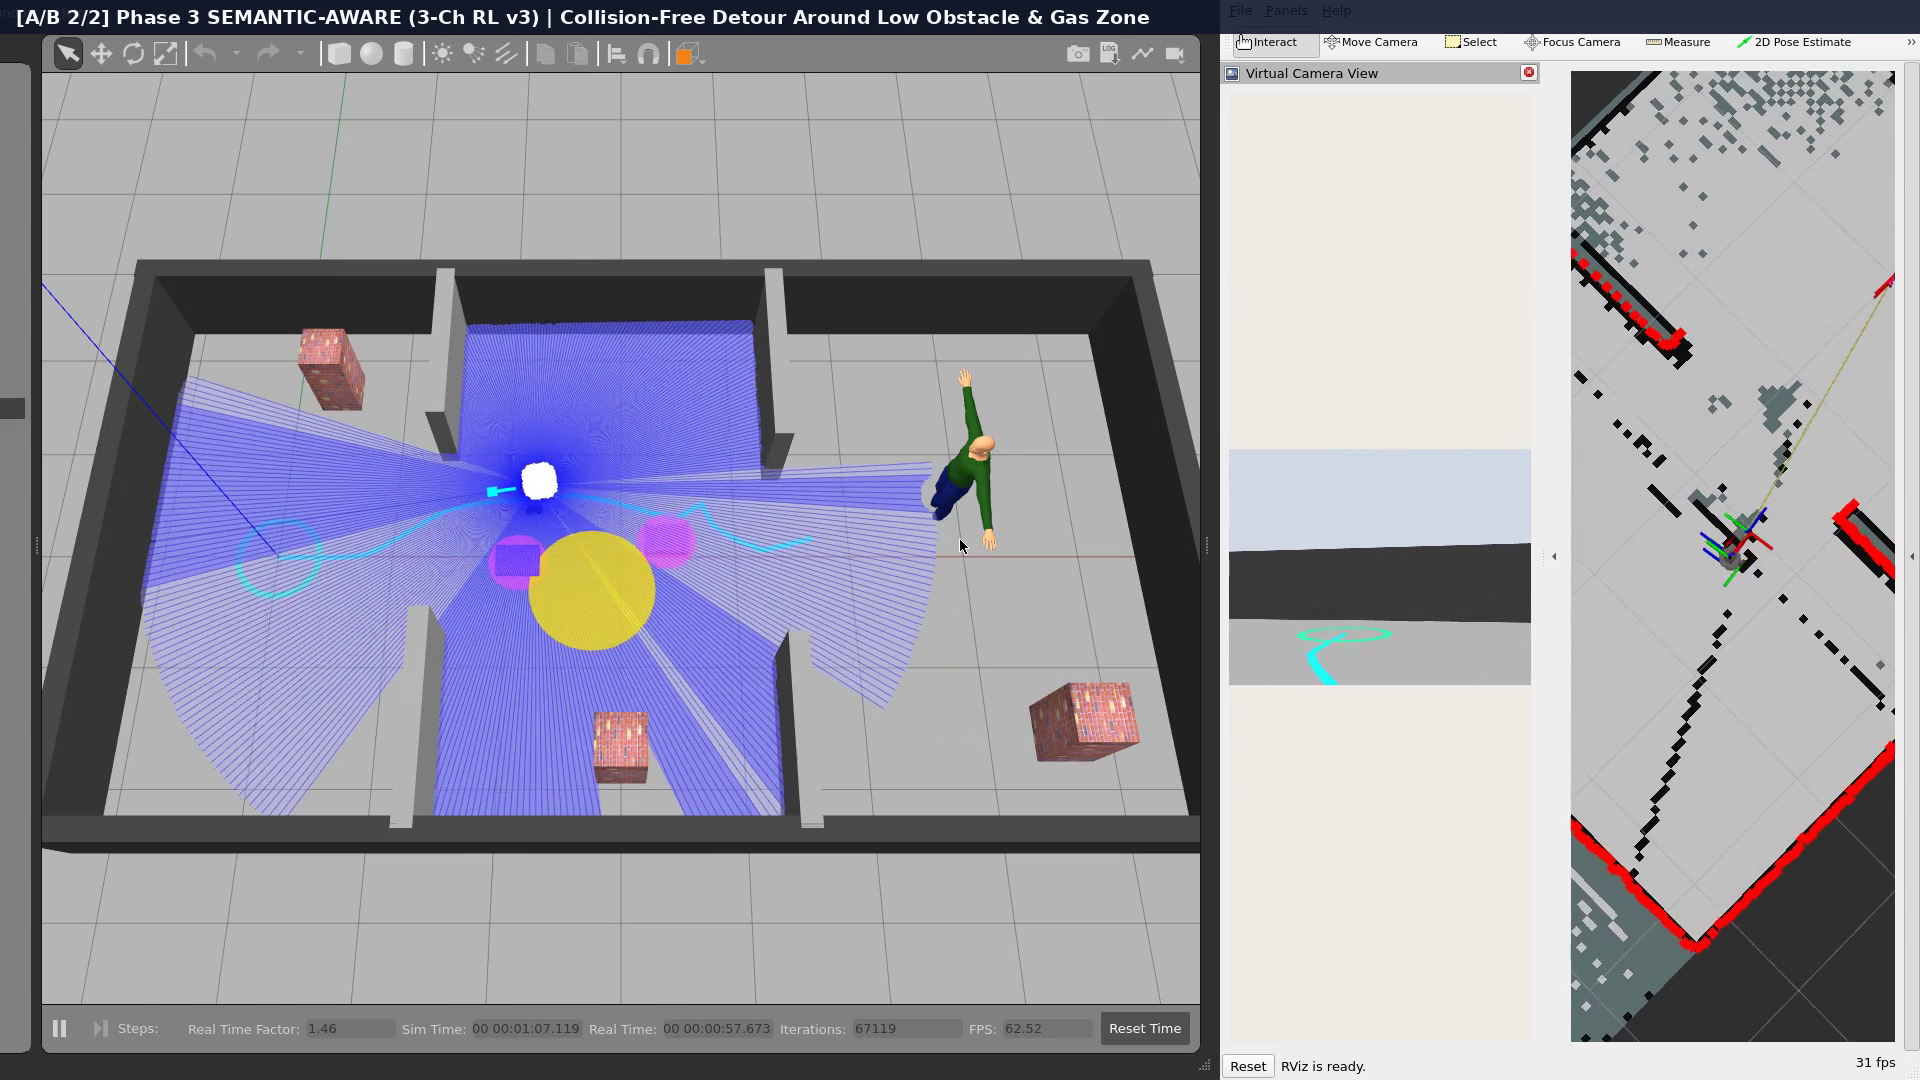
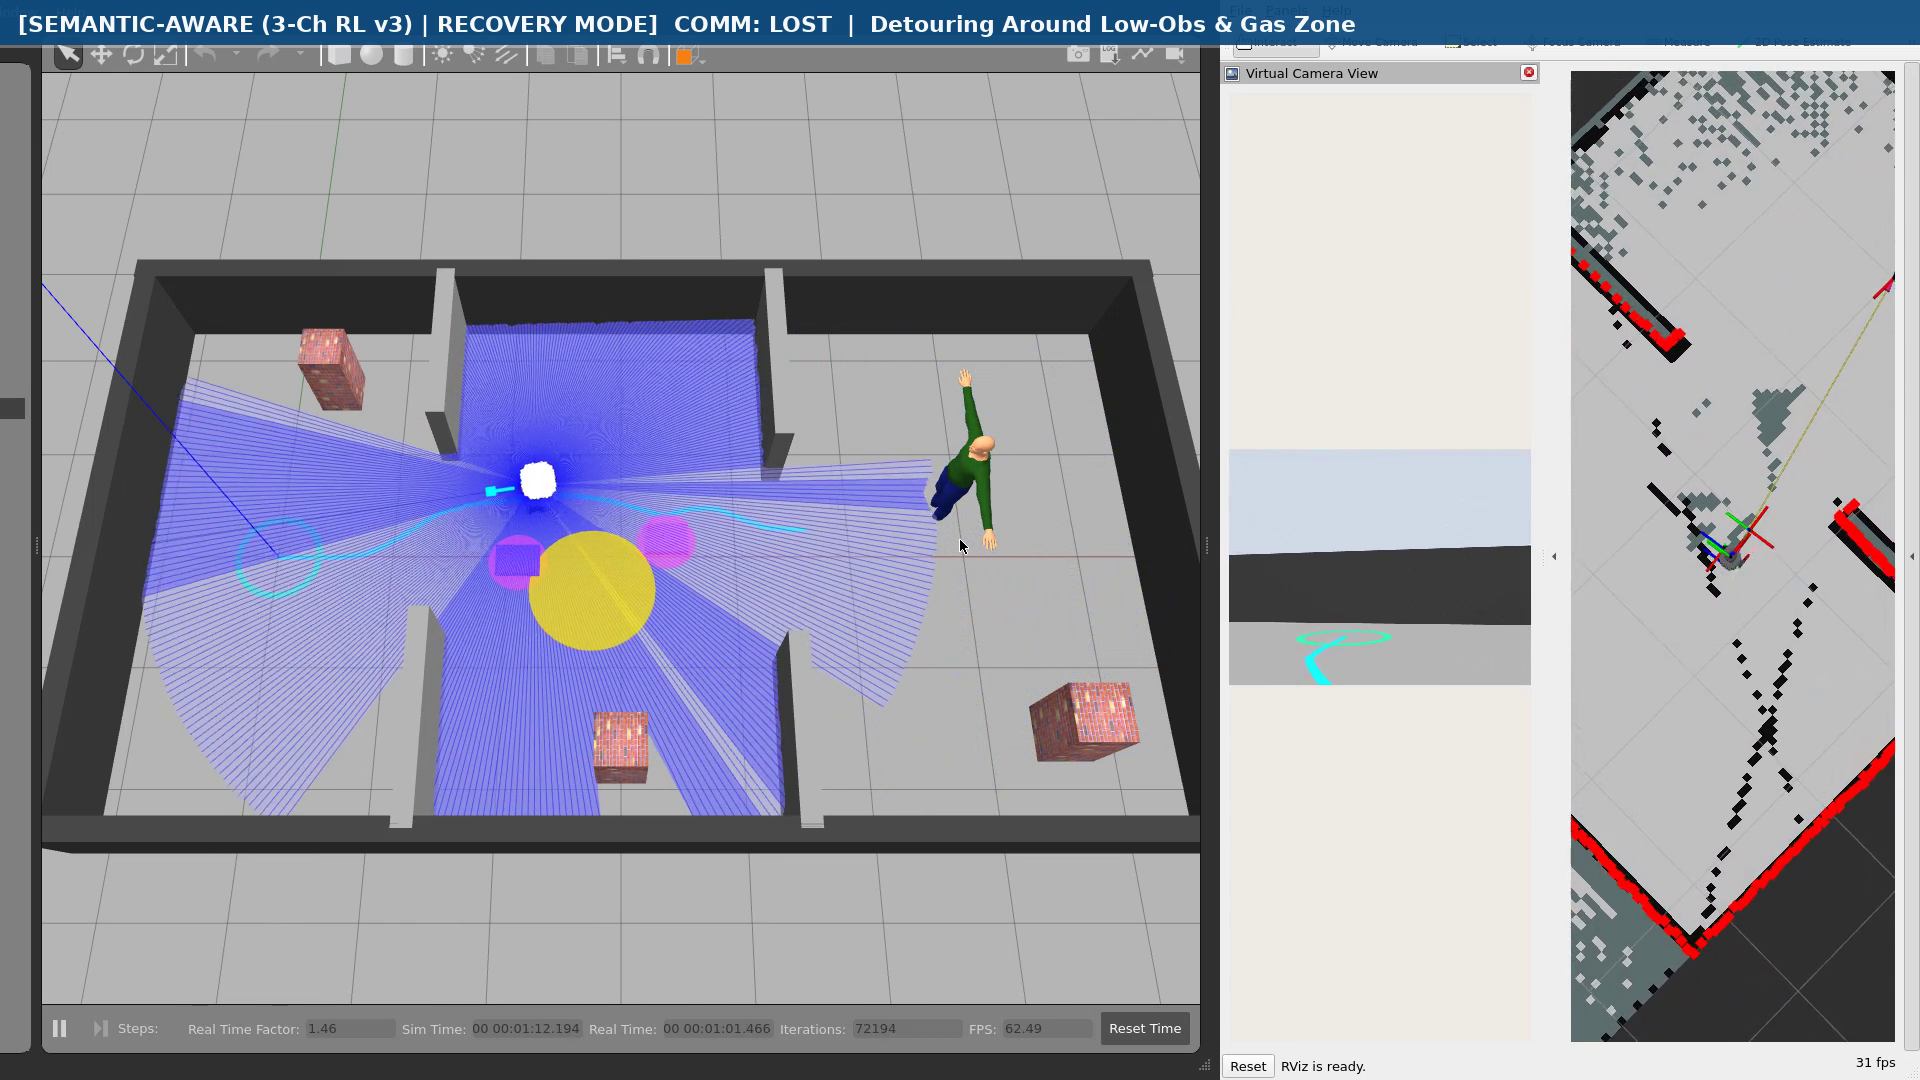
feat(ab): split Blind vs Semantic-Aware GIFs with dynamic mode HUD

diff --git a/scripts/host/run_phase3_semantic_suite.py b/scripts/host/run_phase3_semantic_suite.py
@@ -1398,6 +1398,7 @@ def _record_single_ab_run(
     use_sem: bool,
     onnx_path: str,
     out_mp4: str,
+    out_gif: str,
     snap_png: str,
     banner_title: str,
     gz_port: int,
@@ -1506,14 +1507,9 @@ def _record_single_ab_run(
         def _tick():
             node.publish_overlay_markers(0.0, 0.0, out_pts, ret_pts, low_list, gas_xy)
 
-        out_wps = [(0.9, 0.0), (1.55, 0.55), (2.75, 0.62), (4.20, 0.15), (4.95, 0.25)]
-        seg = node.drive_to_waypoints(out_wps, max_sim_sec=70.0, on_step=_tick)
+        out_wps = [(0.9, 0.0), (1.55, 0.55), (2.75, 0.62), (4.20, 0.15)]
+        seg = node.drive_to_waypoints(out_wps, max_sim_sec=65.0, on_step=_tick)
         out_pts.extend(seg)
-        _spawn_gazebo_visual(
-            node.cli_spawn, node, "gz_outbound_path",
-            _build_ribbon_sdf("gz_outbound_path", _subsampled_pts(out_pts, 0.18), 0.042, 0.003, 0.0025, (0.05, 0.78, 1.0, 1.0), (0.04, 0.62, 0.92, 1.0)),
-            wait=True,
-        )
 
         # Publish semantic cache for Phase 3 (or Blind ignores it via use_semantic_rl_policy=false)
         cache_objs = [
@@ -1534,6 +1530,20 @@ def _record_single_ab_run(
         t_rec_start = time.time()
         time.sleep(0.8)
 
+        # Record final outbound segment in DRIVING MODE [COMM: ON] before cutting Heartbeat
+        seg_end = node.drive_to_waypoints([(4.95, 0.25)], max_sim_sec=20.0, on_step=_tick)
+        out_pts.extend(seg_end)
+        _spawn_gazebo_visual(
+            node.cli_spawn, node, "gz_outbound_path",
+            _build_ribbon_sdf("gz_outbound_path", _subsampled_pts(out_pts, 0.18), 0.042, 0.003, 0.0025, (0.05, 0.78, 1.0, 1.0), (0.04, 0.62, 0.92, 1.0)),
+            wait=True,
+        )
+        node.pub_cached.publish(String(data=json.dumps({"frame_id": "odom", "objects": cache_objs})))
+        node.sim_sleep(0.4)
+
+        t_cut_wall = max(0.2, time.time() - t_rec_start)
+        t_rec_wall: Optional[float] = None
+        t_done_wall: Optional[float] = None
         node.hb_enabled = False
         t_blk = node.sim_now()
         saw_rec = False
@@ -1545,8 +1555,10 @@ def _record_single_ab_run(
 
         while node.sim_now() - t_blk < 78.0:
             rclpy.spin_once(node, timeout_sec=0.02)
-            if node.ctrl_state in ("BACKTRACKING_ROTATE", "BACKTRACKING_HYBRID", "BACKTRACKING_TRANSLATE", "MISSION_COMPLETE"):
+            if node.ctrl_state in ("EMERGENCY_STOP", "BACKTRACKING_ROTATE", "BACKTRACKING_HYBRID", "BACKTRACKING_TRANSLATE", "LOCAL_TD3_AVOIDANCE", "MISSION_COMPLETE"):
                 saw_rec = True
+                if t_rec_wall is None:
+                    t_rec_wall = max(t_cut_wall + 0.1, time.time() - t_rec_start)
             d_l = min(math.hypot(node.cur_x - lx, node.cur_y - ly) for lx, ly in low_list)
             d_g = math.hypot(node.cur_x - gas_xy[0], node.cur_y - gas_xy[1])
             min_low_d = min(min_low_d, d_l)
@@ -1561,6 +1573,7 @@ def _record_single_ab_run(
 
             if saw_rec and node.ctrl_state == "MISSION_COMPLETE":
                 arrived = True
+                t_done_wall = max((t_rec_wall or t_cut_wall) + 0.1, time.time() - t_rec_start)
                 break
             t_s = node.sim_now()
             while node.sim_now() - t_s < 0.08:
@@ -1575,7 +1588,34 @@ def _record_single_ab_run(
             p_ff.stdin.flush()
         p_ff.wait(timeout=15.0)
 
-        _annotate_mp4_and_gif(raw_mp4, out_mp4, None, banner_title)
+        tag_lbl = "SEMANTIC-AWARE (3-Ch RL v3)" if use_sem else "BLIND (Phase 2-B 1-Ch RL)"
+        rec_color = (15, 76, 129, 238) if use_sem else (185, 28, 28, 242)
+        rec_desc = (
+            f"[{tag_lbl} | RECOVERY MODE]  COMM: LOST  |  Detouring Around Low-Obs & Gas Zone"
+            if use_sem
+            else f"[{tag_lbl} | RECOVERY MODE]  COMM: LOST  |  Blind to Low-Obs & Gas (Hits Hazard)"
+        )
+        ab_segments: List[Tuple[float, Optional[float], str, Tuple[int, int, int, int]]] = [
+            (0.0, t_cut_wall, f"[{tag_lbl} | DRIVING MODE]  COMM: ON (10 Hz HB)  |  Outbound Exploration Before Blackout", (30, 64, 175, 238)),
+        ]
+        if t_rec_wall is not None:
+            ab_segments.append((t_cut_wall, t_rec_wall, f"[{tag_lbl} | COMM LOST!]  COMM: LOST (0 Hz HB)  |  Watchdog Timeout (3.0 s)...", (180, 83, 9, 242)))
+            if t_done_wall is not None:
+                ab_segments.append((t_rec_wall, t_done_wall, rec_desc, rec_color))
+                if use_sem and min_low_d >= 0.255 and min_gas_d >= 0.55:
+                    done_msg = f"[{tag_lbl} | MISSION COMPLETE]  Safely Returned (0 Collisions | Low={min_low_d:.2f}m Gas={min_gas_d:.2f}m)"
+                    done_col = (21, 128, 61, 242)
+                else:
+                    done_msg = f"[{tag_lbl} | ARRIVED WITH HAZARD VIOLATION]  Low={min_low_d:.2f}m Gas={min_gas_d:.2f}m"
+                    done_col = (153, 27, 27, 242)
+                ab_segments.append((t_done_wall, None, done_msg, done_col))
+            else:
+                ab_segments.append((t_rec_wall, None, rec_desc, rec_color))
+
+        _annotate_mp4_and_gif(
+            raw_mp4, out_mp4, out_gif, banner_title,
+            gif_fps=8, gif_width=840, phase_segments=ab_segments,
+        )
         subprocess.run(
             ["ffmpeg", "-y", "-ss", f"{snap_ts:.2f}", "-i", out_mp4, "-vframes", "1", snap_png],
             check=False, stdout=subprocess.DEVNULL, stderr=subprocess.DEVNULL,
@@ -1594,44 +1634,28 @@ def _record_single_ab_run(
 
 
 def run_record_ab(args) -> int:
-    """Record Blind vs Semantic-Aware 3D Gazebo + RViz2 (/map) A/B video, GIF, and snapshots."""
+    """Record separate Blind and Semantic-Aware 3D Gazebo + RViz2 (/map) A/B videos, GIFs with dynamic HUD, and snapshots."""
     blind_mp4 = "/hdd/evidence/phase3_semantic/phase3_semantic_avoidance_blind.mp4"
     aware_mp4 = "/hdd/evidence/phase3_semantic/phase3_semantic_avoidance_aware.mp4"
+    blind_gif = os.path.join(WS_ROOT, "docs", "images", "evidence", "phase3_semantic_avoidance_blind.gif")
+    aware_gif = os.path.join(WS_ROOT, "docs", "images", "evidence", "phase3_semantic_avoidance_aware.gif")
     blind_png = os.path.join(WS_ROOT, "docs", "images", "evidence", "phase3_semantic_avoidance_blind.png")
     aware_png = os.path.join(WS_ROOT, "docs", "images", "evidence", "phase3_semantic_avoidance_aware.png")
 
     r_blind = _record_single_ab_run(
-        "blind", False, DEFAULT_P2B_ONNX, blind_mp4, blind_png,
+        "blind", False, DEFAULT_P2B_ONNX, blind_mp4, blind_gif, blind_png,
         "[A/B 1/2] Phase 2-B BLIND (use_semantic_rl_policy=false) | Hits Sub-LiDAR Low Obstacle & Gas Center",
         args.gz_port, args.ros_domain_id, args.display,
     )
     r_aware = _record_single_ab_run(
-        "aware", True, DEFAULT_V3_ONNX, aware_mp4, aware_png,
+        "aware", True, DEFAULT_V3_ONNX, aware_mp4, aware_gif, aware_png,
         "[A/B 2/2] Phase 3 SEMANTIC-AWARE (3-Ch RL v3) | Collision-Free Detour Around Low Obstacle & Gas Zone",
         args.gz_port + 1, args.ros_domain_id + 1, args.display,
     )
 
     shutil.copy2(blind_png, "/hdd/evidence/phase3_semantic/phase3_semantic_avoidance_blind.png")
     shutil.copy2(aware_png, "/hdd/evidence/phase3_semantic/phase3_semantic_avoidance_aware.png")
-
-    combined_mp4 = "/hdd/evidence/phase3_semantic/phase3_semantic_avoidance_ab.mp4"
-    combined_gif = os.path.join(WS_ROOT, "docs", "images", "evidence", "phase3_semantic_avoidance_ab.gif")
-    concat_txt = "/tmp/disaster_recovery/p3_ab_concat.txt"
-    with open(concat_txt, "w") as f:
-        f.write(f"file '{blind_mp4}'\nfile '{aware_mp4}'\n")
-    subprocess.run(
-        ["ffmpeg", "-y", "-f", "concat", "-safe", "0", "-i", concat_txt, "-c", "copy", combined_mp4],
-        check=True, stdout=subprocess.DEVNULL, stderr=subprocess.DEVNULL,
-    )
-    subprocess.run(
-        [
-            "ffmpeg", "-y", "-i", combined_mp4,
-            "-vf", "fps=8,scale=960:-1:flags=lanczos,split[s0][s1];[s0]palettegen=max_colors=128[p];[s1][p]paletteuse=dither=bayer",
-            combined_gif,
-        ],
-        check=True, stdout=subprocess.DEVNULL, stderr=subprocess.DEVNULL,
-    )
-    print(f"[AB RECORD DONE] blind={r_blind} aware={r_aware} gif={combined_gif}")
+    print(f"[AB RECORD DONE] blind={r_blind} aware={r_aware} blind_gif={blind_gif} aware_gif={aware_gif}")
     return 0
 
 

diff --git a/README.md b/README.md
@@ -373,9 +373,13 @@ flowchart LR
 | **평균 최소 이격 (저상 장애물 / 가스 중심)** | `0.3082 m` / `0.4325 m` | **`0.5939 m` / `0.8199 m`** | **`+28.57 cm` / `+38.74 cm`** |
 | **평균 복귀 소요 시간** | `67.79 s` | **`23.07 s`** | **`2.94×` 단축 (`-44.72 s`)** |
 
-| `[GIF]` Blind vs Semantic-Aware A/B 실주행 비교 | `[PNG]` 10-Trial 시맨틱 A/B 정량 비교 그래프 (`Option 2`) |
+| `[GIF]` Phase 2-B **Blind** (`1-Ch RL` · 저상/가스 미인지) | `[GIF]` Phase 3 **Semantic-Aware** (`Option 2 3-Ch RL` · 선제 우회) |
 | :---: | :---: |
-| <img src="docs/images/evidence/phase3_semantic_avoidance_ab.gif" width="100%" alt="[GIF] Phase 3 Semantic Avoidance AB"> | <img src="docs/images/evidence_v3/phase3_semantic_ab_comparison.png" width="100%" alt="[PNG] Phase 3 10-Trial Semantic A/B Comparison"> |
+| <img src="docs/images/evidence/phase3_semantic_avoidance_blind.gif" width="100%" alt="[GIF] Phase 2-B Blind Low-Obstacle Hit"> | <img src="docs/images/evidence/phase3_semantic_avoidance_aware.gif" width="100%" alt="[GIF] Phase 3 Semantic-Aware Collision-Free Detour"> |
+
+<p align="center">
+  <img src="docs/images/evidence_v3/phase3_semantic_ab_comparison.png" width="88%" alt="[PNG] Phase 3 10-Trial Semantic A/B Comparison">
+</p>
 
 ---
 
